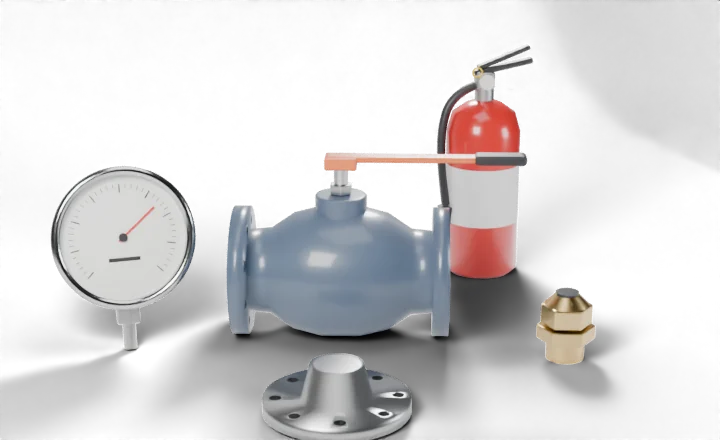
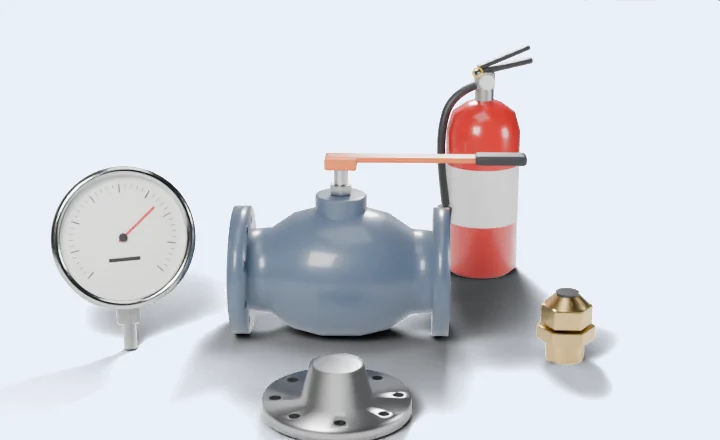
Fix mobile header overflow, hero sizing and card add-to-cart label
- Merge conflicting display utilities in header actions with cn()
- Smaller hero headline; studio composite flattened onto the banner tone
- Short "Add" label on product cards so it never truncates

Claude-Session: https://claude.ai/code/session_01NN8wnKYYAHufofvB1TTa9P

diff --git a/src/features/home/components/hero.tsx b/src/features/home/components/hero.tsx
@@ -11,13 +11,13 @@ export async function Hero() {
   return (
     <section className="container-site pt-6 pb-4 sm:pt-8">
       <div className="grid gap-4 lg:grid-cols-12">
-        <div className="relative isolate overflow-hidden rounded-xl bg-[radial-gradient(120%_120%_at_85%_20%,#ffffff_0%,#eef2f8_45%,#e3e9f2_100%)] lg:col-span-8">
-          <div className="relative z-10 flex flex-col p-6 sm:p-10 lg:max-w-[58%] lg:py-14">
+        <div className="relative isolate overflow-hidden rounded-xl bg-hero lg:col-span-8">
+          <div className="relative z-10 flex flex-col p-6 sm:p-10 lg:max-w-[54%] lg:py-12">
             <p className="inline-flex w-fit items-center gap-2 rounded-full bg-surface px-3 py-1 text-xs font-medium text-navy shadow-card">
               <span aria-hidden className="size-1.5 rounded-full bg-brand" />
               {t('hero.eyebrow')}
             </p>
-            <h1 className="mt-5 text-2xl leading-tight sm:text-4xl sm:leading-[1.2]">{t('hero.title')}</h1>
+            <h1 className="mt-5 text-2xl leading-tight sm:text-3xl sm:leading-[1.25]">{t('hero.title')}</h1>
             <p className="mt-4 text-base leading-7 text-body sm:text-md">{t('hero.lead')}</p>
             <div className="mt-7 flex flex-wrap gap-3">
               <ButtonLink href="/catalog" size="lg">
@@ -37,7 +37,7 @@ export async function Hero() {
             height={1100}
             priority
             sizes="(min-width: 1024px) 60vw, 100vw"
-            className="relative -mt-4 w-full lg:absolute lg:inset-y-0 lg:end-[-6%] lg:mt-0 lg:h-full lg:w-[72%] lg:object-contain lg:object-bottom rtl:lg:-scale-x-100"
+            className="relative -mt-2 w-full lg:absolute lg:end-[-4%] lg:bottom-0 lg:mt-0 lg:h-[88%] lg:w-[58%] lg:object-contain lg:object-bottom rtl:lg:-scale-x-100"
           />
         </div>
 

diff --git a/src/components/common/site-header.tsx b/src/components/common/site-header.tsx
@@ -5,6 +5,7 @@ import { getCartCatalog } from '@/features/cart/services/cart-catalog';
 import { CatalogSearchForm } from '@/features/catalog/components/catalog-search-form';
 import { getCategories } from '@/features/catalog/services/catalog';
 import { Link } from '@/lib/i18n/navigation';
+import { cn } from '@/utils/cn';
 import { CategoryBar } from './category-bar';
 import { Logo } from './logo';
 import { MobileMenu } from './mobile-menu';
@@ -25,11 +26,11 @@ export async function SiteHeader() {
           <Logo priority className="h-9 sm:h-11" />
           <CatalogSearchForm idPrefix="header-search" className="hidden max-w-3xl flex-1 md:flex" />
           <div className="ms-auto flex items-center gap-1 sm:gap-2">
-            <Link href="/account" className={`${action} hidden xl:inline-flex`}>
+            <Link href="/account" className={cn(action, 'hidden xl:inline-flex')}>
               <UserRound aria-hidden className="size-5 text-navy" />
               {t('account')}
             </Link>
-            <Link href="/rfq" className={`${action} hidden lg:inline-flex`}>
+            <Link href="/rfq" className={cn(action, 'hidden lg:inline-flex')}>
               <ClipboardList aria-hidden className="size-5 text-navy" />
               {t('rfq')}
             </Link>

diff --git a/src/features/cart/components/add-to-cart.tsx b/src/features/cart/components/add-to-cart.tsx
@@ -58,7 +58,17 @@ export function AddToCart({ category, slug, itemName, variant = 'card', classNam
         className={cn('flex-1', detail ? 'h-12' : 'h-9')}
       >
         {justAdded ? <Check aria-hidden /> : <ShoppingCart aria-hidden />}
-        <span>{justAdded ? t('added') : inCart > 0 && detail ? t('inCart', { count: inCart }) : t('addToCart')}</span>
+        <span>
+          {justAdded
+            ? detail
+              ? t('added')
+              : t('addedShort')
+            : inCart > 0 && detail
+              ? t('inCart', { count: inCart })
+              : detail
+                ? t('addToCart')
+                : t('add')}
+        </span>
       </Button>
       <span aria-live="polite" className="sr-only">
         {justAdded ? `${t('added')}: ${itemName}` : ''}

diff --git a/src/styles/globals.css b/src/styles/globals.css
@@ -35,6 +35,8 @@
   --color-surface: #ffffff;
   --color-canvas: #f4f6f9;
   --color-sand: #fff4e8;
+  /* Banner tone the hero composite is flattened onto (see public/products/hero.webp). */
+  --color-hero: #eaeff6;
   --color-tint-50: #f1f5fb;
   --color-tint-100: #eaf0f8;
   --color-tint-200: #dfe8f4;
